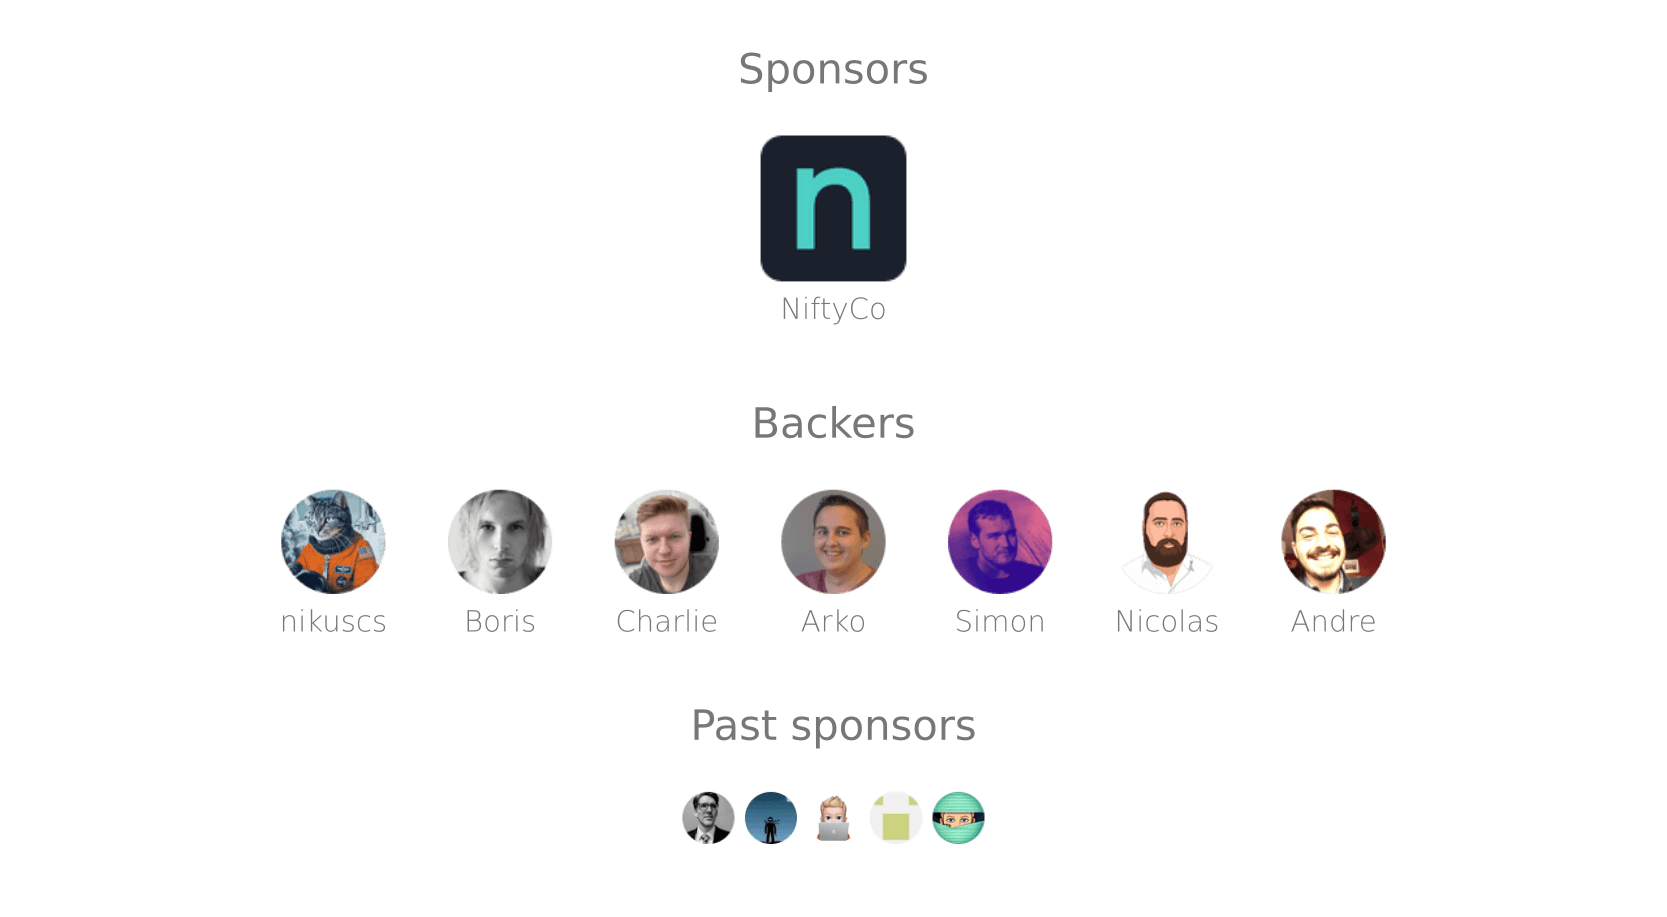
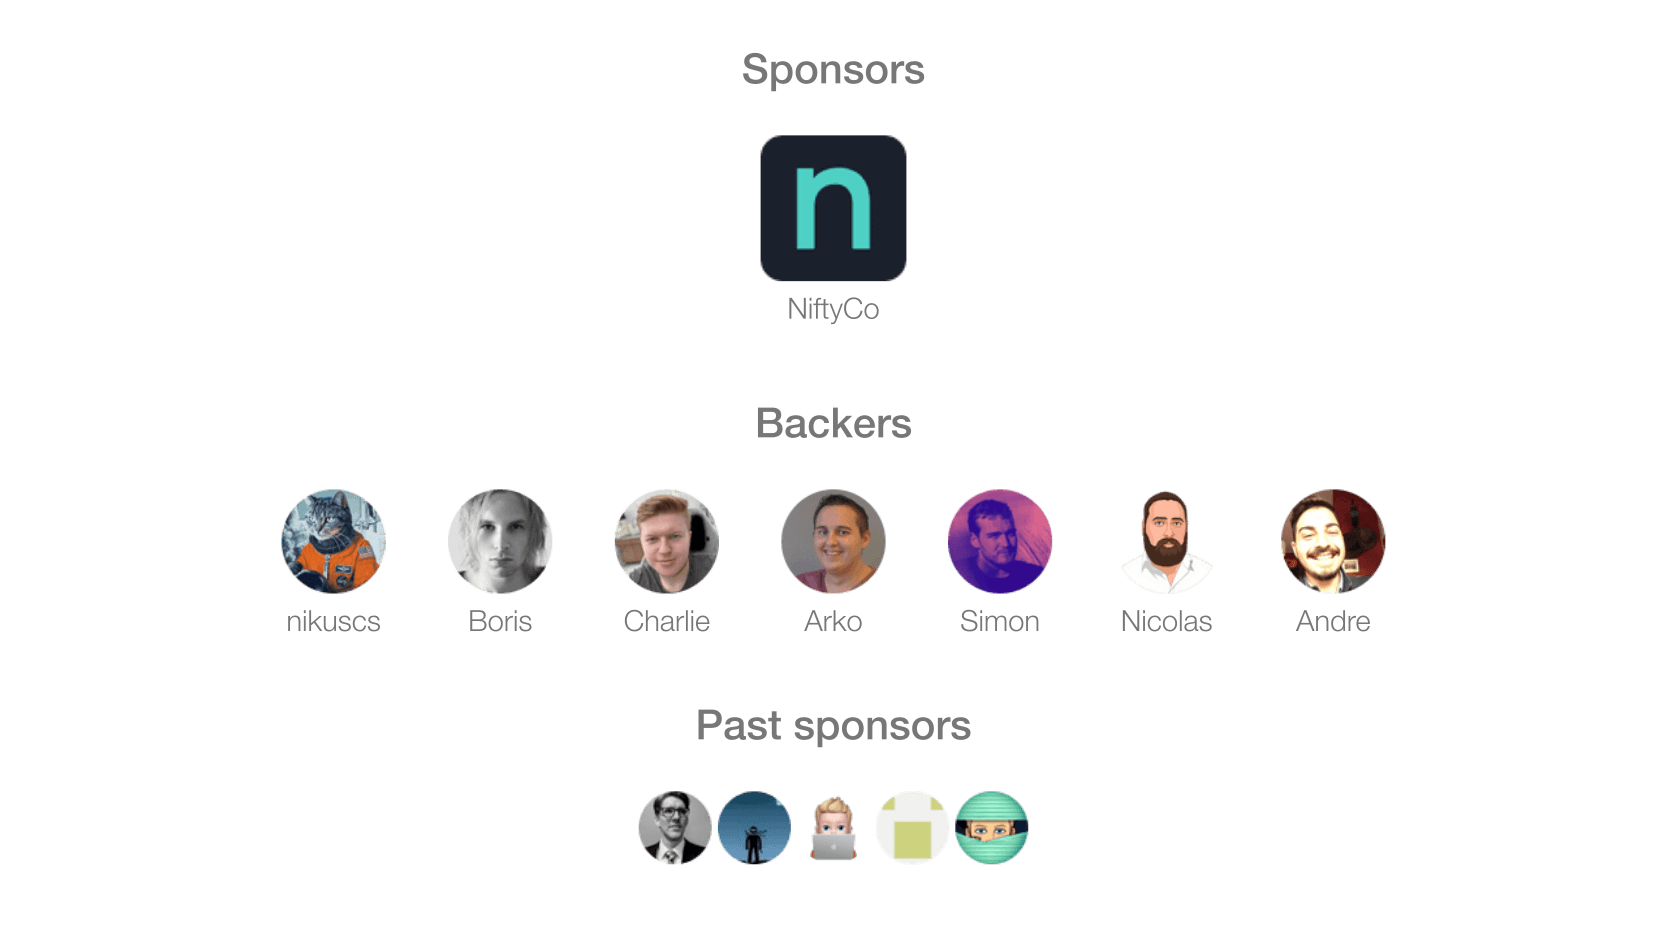
chore: increase past sponsors size

diff --git a/sponsorkit.config.ts b/sponsorkit.config.ts
@@ -14,7 +14,7 @@ export default defineConfig({
 		{
 			title: 'Past sponsors',
 			monthlyDollars: -1,
-			preset: presets.xs,
+			preset: presets.small,
 		},
 		{
 			title: 'Backers',
